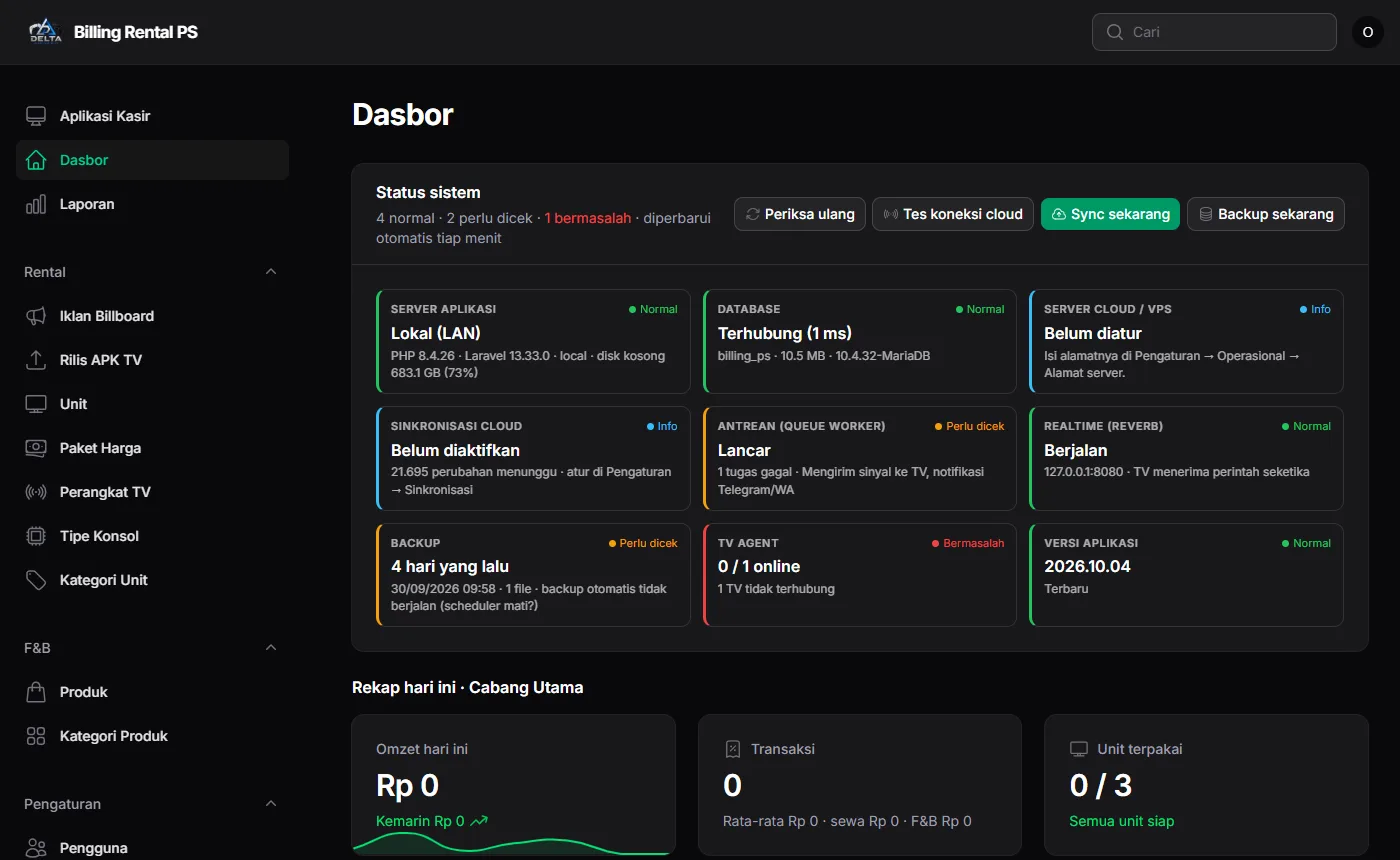
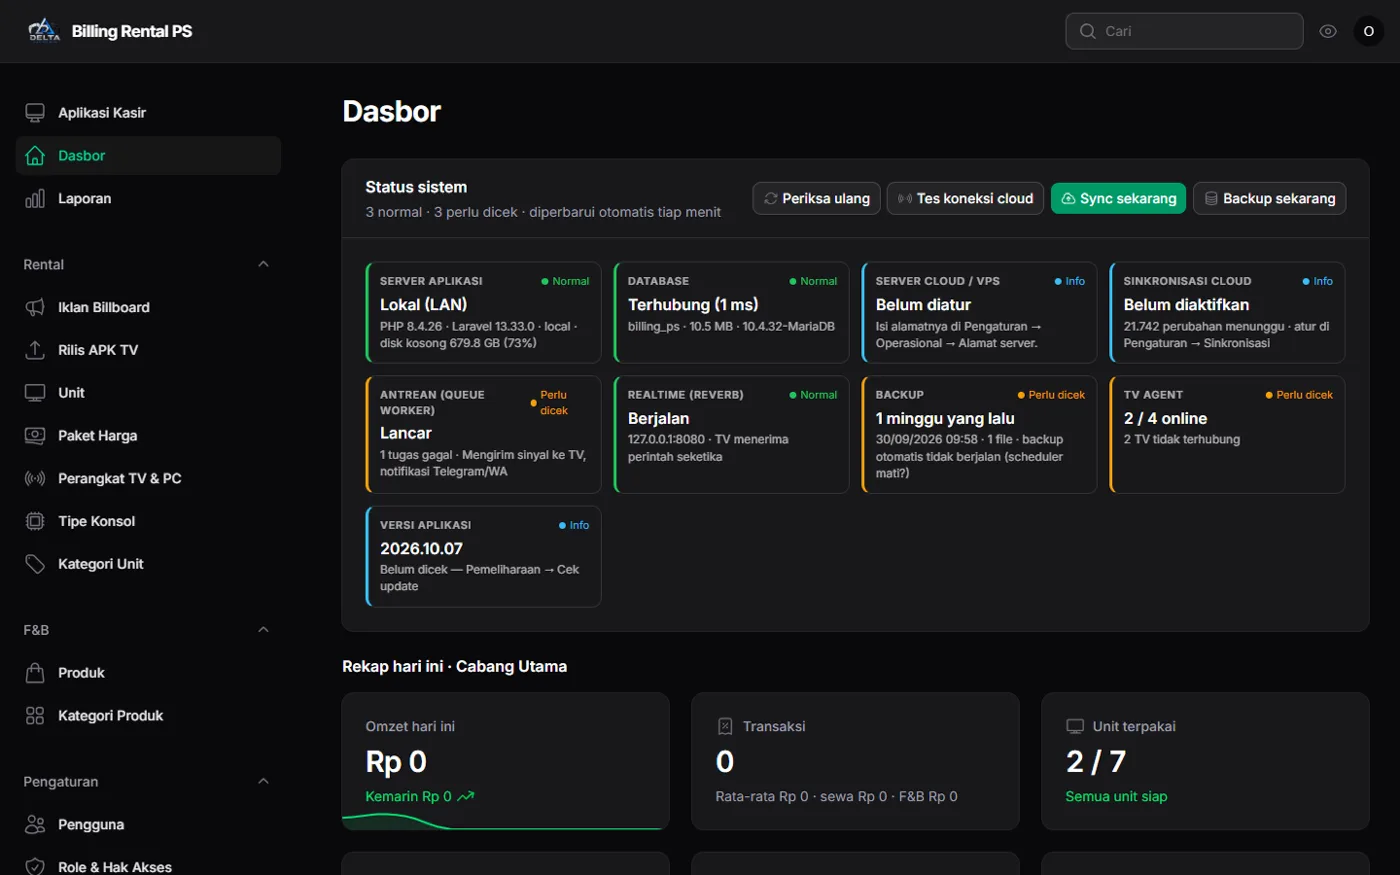
README: kebutuhan sistem Windows & Linux, screenshot baru (Rental PC, Analisa Pintar, tombol mata)

diff --git a/README.md b/README.md
@@ -2,7 +2,7 @@
 
 # 🎮 Billing Rental PS
 
-**Aplikasi billing rental PlayStation lengkap — kasir, TV terkunci otomatis, F&B, booking, member, turnamen, laporan.**
+**Aplikasi billing rental PlayStation & PC lengkap — kasir, TV terkunci otomatis, F&B, booking, member, turnamen, laporan & analisa.**
 Jalan di PC rental (offline-first) dan bisa disinkron ke server cloud.
 
 [![Rilis terbaru](https://img.shields.io/github/v/release/deindr4/billing-rental-ps?label=rilis&color=0ea5e9)](https://github.com/deindr4/billing-rental-ps/releases/latest)
@@ -25,10 +25,12 @@ Jalan di PC rental (offline-first) dan bisa disinkron ke server cloud.
 - [Tampilan](#tampilan)
 - [Fitur](#fitur)
 - [Cara kerja](#cara-kerja)
+- [Kebutuhan sistem](#kebutuhan-sistem)
 - [Memasang](#memasang)
 - [Update](#update)
 - [Pengembangan](#pengembangan)
 - [Dokumentasi](#dokumentasi)
+- [Lisensi](#lisensi)
 
 ---
 
@@ -54,12 +56,19 @@ Jalan di PC rental (offline-first) dan bisa disinkron ke server cloud.
     <td width="50%"><img src="docs/gambar/kasir-pos.webp" alt="POS F&B"><br><sub><b>POS F&B</b> — gabung ke tagihan unit, batalkan salah order (−1 / semua)</sub></td>
   </tr>
   <tr>
+    <td><img src="docs/gambar/kasir-rental-pc.webp" alt="Rental PC"><br><sub><b>Rental PC</b> — menu terpisah dari Rental PS; tutup game hang, Task Manager sementara, kunci, log off, restart, nyalakan (Wake-on-LAN)</sub></td>
+    <td><img src="docs/gambar/kasir-analisa-pintar.webp" alt="Analisa Pintar"><br><sub><b>Analisa Pintar</b> — audit kecurangan kasir, titik impas, proyeksi akhir bulan, operasional & stok (tanpa AI, offline)</sub></td>
+  </tr>
+  <tr>
     <td><img src="docs/gambar/kasir-kelola-tv.webp" alt="Kelola TV"><br><sub><b>Kelola TV</b> — unlock / lock, bypass berdurasi, kode darurat, riwayat</sub></td>
     <td><img src="docs/gambar/kasir-turnamen-bagan.webp" alt="Turnamen"><br><sub><b>Turnamen</b> — gugur, gugur ganda, liga, fase grup + klasemen</sub></td>
   </tr>
   <tr>
+    <td><img src="docs/gambar/kasir-sembunyi-nominal.webp" alt="Sembunyikan nominal"><br><sub><b>Tombol mata</b> — omzet, kas laci & laporan jadi <code>Rp *******</code> sebelum foto layar</sub></td>
     <td><img src="docs/gambar/kasir-matriks-terang.webp" alt="Mode terang"><br><sub>Mode terang · ikon & tombol berwarna per fungsi</sub></td>
-    <td align="center"><img src="docs/gambar/kasir-hp.webp" alt="Kasir di HP" width="80%"><br><sub>Responsif di HP: matriks unit & POS</sub></td>
+  </tr>
+  <tr>
+    <td colspan="2" align="center"><img src="docs/gambar/kasir-hp.webp" alt="Kasir di HP" width="55%"><br><sub>Responsif di HP: matriks unit & POS</sub></td>
   </tr>
 </table>
 
@@ -107,6 +116,8 @@ Jalan di PC rental (offline-first) dan bisa disinkron ke server cloud.
 - **Pindah unit** tanpa kehilangan tagihan, **batal tambah waktu** & **batal sesi** (salah pencet / tidak jadi main).
 - Satu TV beberapa konsol: nama per **HDMI** (HDMI 1 = PS3, HDMI 2 = PS4 …), kasir memilih / memindah HDMI.
 - Tarif per tipe konsol, kategori unit (VIP / reguler), paket harga & aturan harga.
+- **Rental PC** di menu terpisah (tipe konsol berjenis PC), member & laporan tetap satu; server & admin siap untuk
+  agen kiosk Windows (proteksi, Task Manager sementara, Wake-on-LAN) — aplikasi agen PC menyusul.
 </details>
 
 <details>
@@ -127,8 +138,20 @@ Jalan di PC rental (offline-first) dan bisa disinkron ke server cloud.
 - Stok per cabang dengan HPP rata-rata, stok masuk, **opname**, mutasi.
 - **Shift kas**: buka / tutup kas, hitung pecahan, selisih kas tercatat; pengeluaran dengan batas & PIN.
 - Pembayaran: tunai, QRIS statis (nominal otomatis), transfer, saldo member, campuran.
+- **Bayar sekaligus** beberapa tagihan unit / POS dengan satu struk gabungan (tiap unit tetap tercatat sendiri).
+- **Koreksi harga pokok** stok masuk oleh owner — HPP & laba penjualan sejak itu dihitung ulang.
 - Struk printer Bluetooth (RawBT, 58 / 80 mm) & kirim struk lewat WhatsApp.
-- Aset & modal, maintenance unit, laporan omzet / laba / HPP / metode bayar / perbandingan cabang.
+- Aset & modal, maintenance unit, laporan omzet / laba / HPP / metode bayar / perbandingan cabang, Sewa PS & Sewa PC.
+- **Tombol mata**: sembunyikan nominal (omzet, kas laci, laporan, dasbor) sebelum foto layar.
+</details>
+
+<details>
+<summary><b>📊 Analisa pintar (tanpa AI, offline)</b></summary>
+
+- **Audit kecurangan kasir**: skor risiko 0–100 dari pembatalan, kas kurang, bonus waktu, bypass TV, batal F&B, diskon, PIN salah.
+- **Keuangan**: vs periode lalu, titik impas harian, proyeksi akhir bulan, margin, ROI aset, pengeluaran melonjak.
+- **Operasional**: utilisasi per unit, jam sepi, omzet per hari, paket terlaris, member yang lama tidak datang.
+- **Stok**: barang hilang saat opname, segera habis, dijual rugi, stok mati. Aturan: [docs/analisa-pintar.md](docs/analisa-pintar.md).
 </details>
 
 <details>
@@ -188,6 +211,53 @@ flowchart LR
 
 ---
 
+## Kebutuhan sistem
+
+### 🪟 Windows — server lokal di PC rental (installer `.exe`)
+
+| | Minimal | Disarankan |
+|---|---|---|
+| Sistem operasi | Windows 10 64-bit | Windows 10 / 11 64-bit, update terbaru |
+| Prosesor | 2 core 64-bit (Intel Core i3 / AMD Ryzen 3 generasi lama) | 4 core atau lebih |
+| RAM | 4 GB | 8 GB |
+| Penyimpanan | 3 GB kosong + ruang backup harian | **SSD**, 10 GB kosong |
+| Jaringan | LAN satu jaringan dengan TV & tablet kasir | Kabel LAN + **IP tetap** (reservasi DHCP di router) |
+| Akses | Akun **administrator** Windows untuk memasang | PC menyala selama jam buka (BIOS: *power on after power loss*) |
+| Internet | Tidak wajib untuk kasir & TV | Untuk sinkron cloud, pembayaran online, WhatsApp, cek update |
+
+Semua komponen **sudah termasuk** di installer, tidak perlu dipasang manual: PHP 8.4, Apache 2.4, MariaDB 10.11,
+Node.js 24 (WhatsApp), cloudflared, NSSM & Visual C++ Redistributable. Port dipilih otomatis bila bentrok
+(web 80, database 3306–3310, realtime 8080–8090); firewall hanya dibuka untuk jaringan lokal.
+
+### 🐧 Linux — server cloud (opsional, paket `.tar.gz`)
+
+| | Minimal | Disarankan |
+|---|---|---|
+| Sistem operasi | Ubuntu 22.04 / Debian 12 (64-bit) | Ubuntu 24.04 + **CloudPanel 2** |
+| CPU / RAM | 1 vCPU · 1 GB RAM | 2 vCPU · 2 GB RAM |
+| Penyimpanan | 5 GB kosong | 20 GB SSD |
+| PHP | **8.3** atau lebih baru | 8.4 |
+| Ekstensi PHP | ctype, curl, dom, fileinfo, gd (WebP), intl, mbstring, openssl, pdo_mysql, sodium, tokenizer, xml, zip | + opcache |
+| Database | MariaDB 10.6+ / MySQL 8.0+ dengan hak **TRIGGER** & `log_bin_trust_function_creators=1` | MariaDB 10.11+ |
+| Proses latar | **Supervisor** (antrean, realtime Reverb, jadwal) | — |
+| Web | Nginx / Apache + domain **HTTPS** | Cloudflare (Full strict) atau Cloudflare Tunnel |
+
+Node.js **tidak** dibutuhkan di server (aset sudah dibangun di paket). Skrip `installer/cloudpanel/pasang-root.sh`
+menyiapkan database & supervisor, `pasang-site.sh` memasang / memperbarui aplikasi — lihat [docs/cloudpanel.md](docs/cloudpanel.md).
+Shared hosting / cPanel juga bisa tanpa realtime TV: [docs/hosting.md](docs/hosting.md).
+
+### Perangkat lain
+
+| Perangkat | Kebutuhan |
+|---|---|
+| 📺 TV | **Android TV / Google TV 8.0+** (Xiaomi, TCL, dll. — sudah diuji Android TV 12 & 14), satu jaringan dengan PC rental |
+| 📱 Kasir | Tablet / PC / HP dengan browser modern (Chrome, Edge, Safari) |
+| 🖨 Struk | Printer thermal Bluetooth 58 / 80 mm lewat aplikasi **RawBT** (Android) |
+| 💬 WhatsApp | Nomor WhatsApp khusus rental (login QR di admin) |
+| 🖥 PC rental | Windows 10 / 11 — billing sudah bisa dipakai (mode manual); aplikasi agen kiosk menyusul |
+
+---
+
 ## Memasang
 
 ### PC rental (Windows 10 / 11, 64-bit)
@@ -202,7 +272,7 @@ yang menyala sendiri, firewall dibuka hanya untuk jaringan lokal. Panduan: [docs
 
 ### TV
 
-Di TV buka `http://IP-PC/apk` → pasang **TV Agent** → isi alamat server → masukkan kode pairing di Admin → Perangkat TV.
+Di TV buka `http://IP-PC/apk` → pasang **TV Agent** → isi alamat server → masukkan kode pairing di Admin → Perangkat TV & PC.
 Izin & mode kiosk: [tv-agent/README.md](tv-agent/README.md).
 
 ### Server cloud (opsional)
@@ -272,6 +342,8 @@ docs/                Dokumentasi & changelog              docs/desain/   desain 
 | [docs/pembayaran-online.md](docs/pembayaran-online.md) | Payment gateway & bayar mandiri QRIS di TV |
 | [docs/turnamen.md](docs/turnamen.md) | Format turnamen, bundling F&B, keuangan & hadiah |
 | [docs/tv-agent-api.md](docs/tv-agent-api.md) | Kontrak API server ↔ TV Agent |
+| [docs/pc-agent.md](docs/pc-agent.md) | Rental PC & kontrak agen kiosk Windows |
+| [docs/analisa-pintar.md](docs/analisa-pintar.md) | Aturan Analisa Pintar (skor risiko kasir, keuangan, operasional, stok) |
 | [docs/rilis-apk.md](docs/rilis-apk.md) | Rilis, push update & rollback APK TV |
 | [docs/pentest-2026-10-02.md](docs/pentest-2026-10-02.md) | Hasil uji keamanan & checklist |
 | [docs/desain/README.md](docs/desain/README.md) | Desain Stitch (acuan semua tampilan) |
